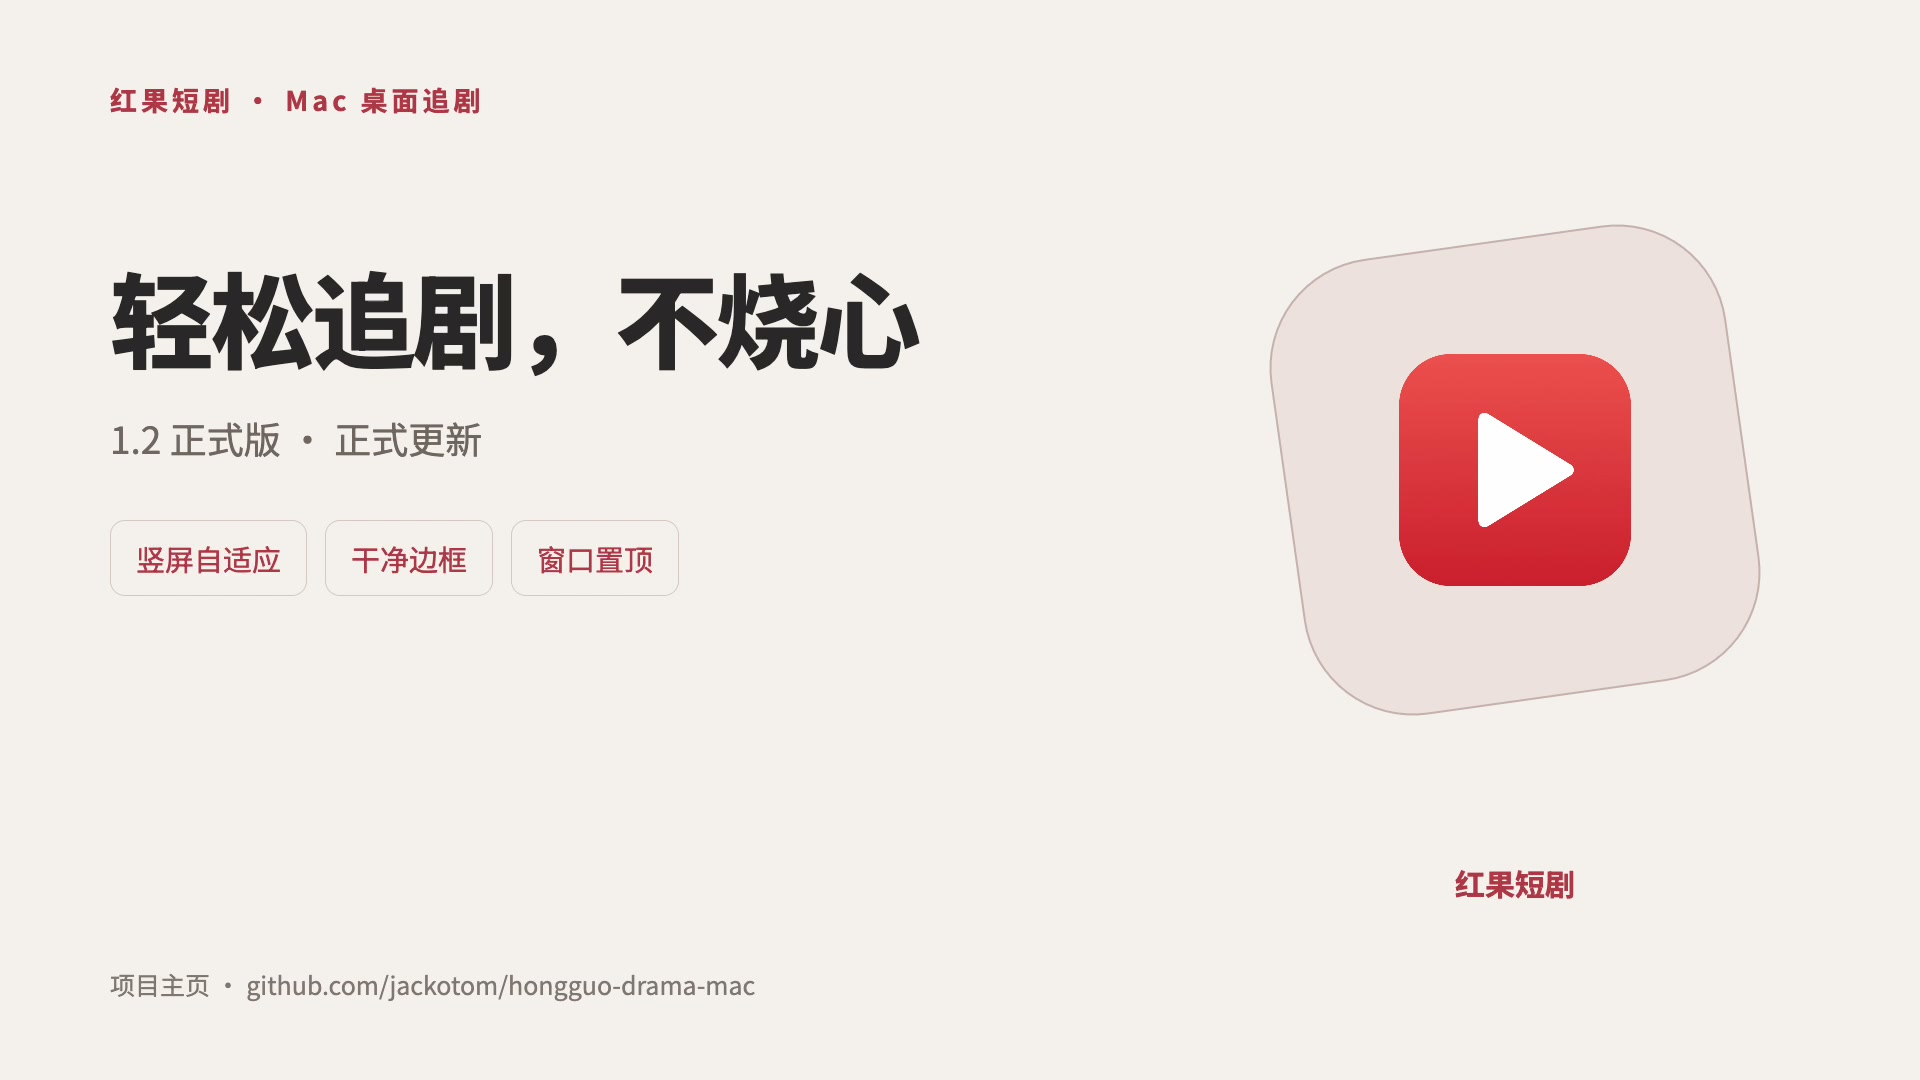
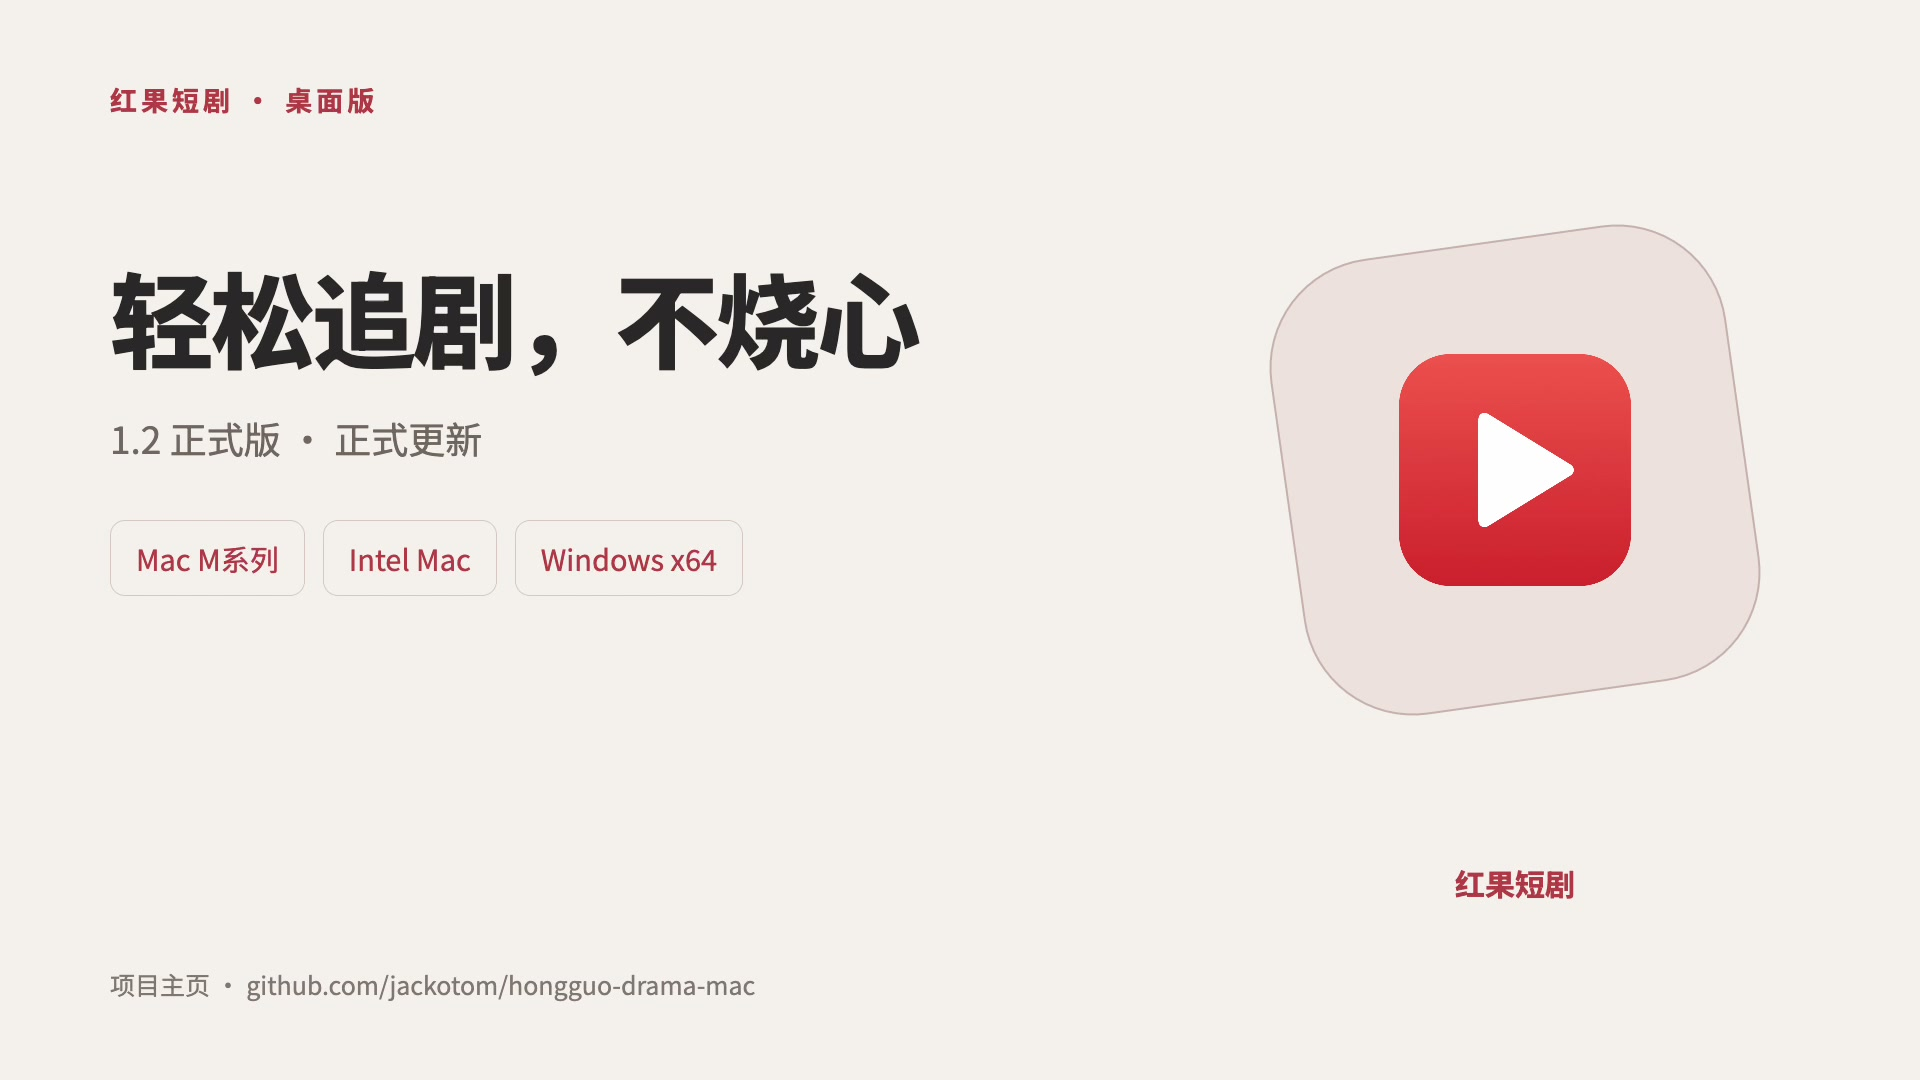
Refresh desktop edition video cover and homepage entry

Changed region(s): [[0.0625, 0.4889, 0.25, 0.55], [0.2812, 0.4889, 0.375, 0.55], [0.1562, 0.0611, 0.25, 0.1222]]

diff --git a/README.md b/README.md
@@ -35,9 +35,9 @@
 
 ### 1.2 功能介绍视频
 
-[![红果短剧 1.2 桌面版功能介绍封面](docs/screenshots/hongguo-1.2-promo.jpg)](https://github.com/jackotom/hongguo-drama-mac/releases)
+[![红果短剧 1.2 桌面版功能介绍封面](docs/screenshots/hongguo-1.2-promo.jpg)](https://github.com/jackotom/hongguo-drama-mac/releases/download/v1.2/Hongguo-1.2-Complete-Intro-1.5x.mp4)
 
-视频介绍画面缩放、保持宽度、隐藏播放器边框、窗口置顶，以及搜索、播放、下载与更新提醒。请在 [Releases](https://github.com/jackotom/hongguo-drama-mac/releases) 的 1.2 附件中查看 `Hongguo-1.2-Complete-Intro-1.5x.mp4`；若尚未出现，请等待该版本正式发布。
+视频介绍画面缩放、保持宽度、隐藏播放器边框、窗口置顶，以及搜索、播放、下载与更新提醒。点击封面可观看或下载完整视频（约1分42秒，1.5倍速）。软件、源码与视频均已在 [1.2正式发行页](https://github.com/jackotom/hongguo-drama-mac/releases/tag/v1.2) 提供。
 
 分享与推广统一使用本仓库首页：**https://github.com/jackotom/hongguo-drama-mac**。
 
